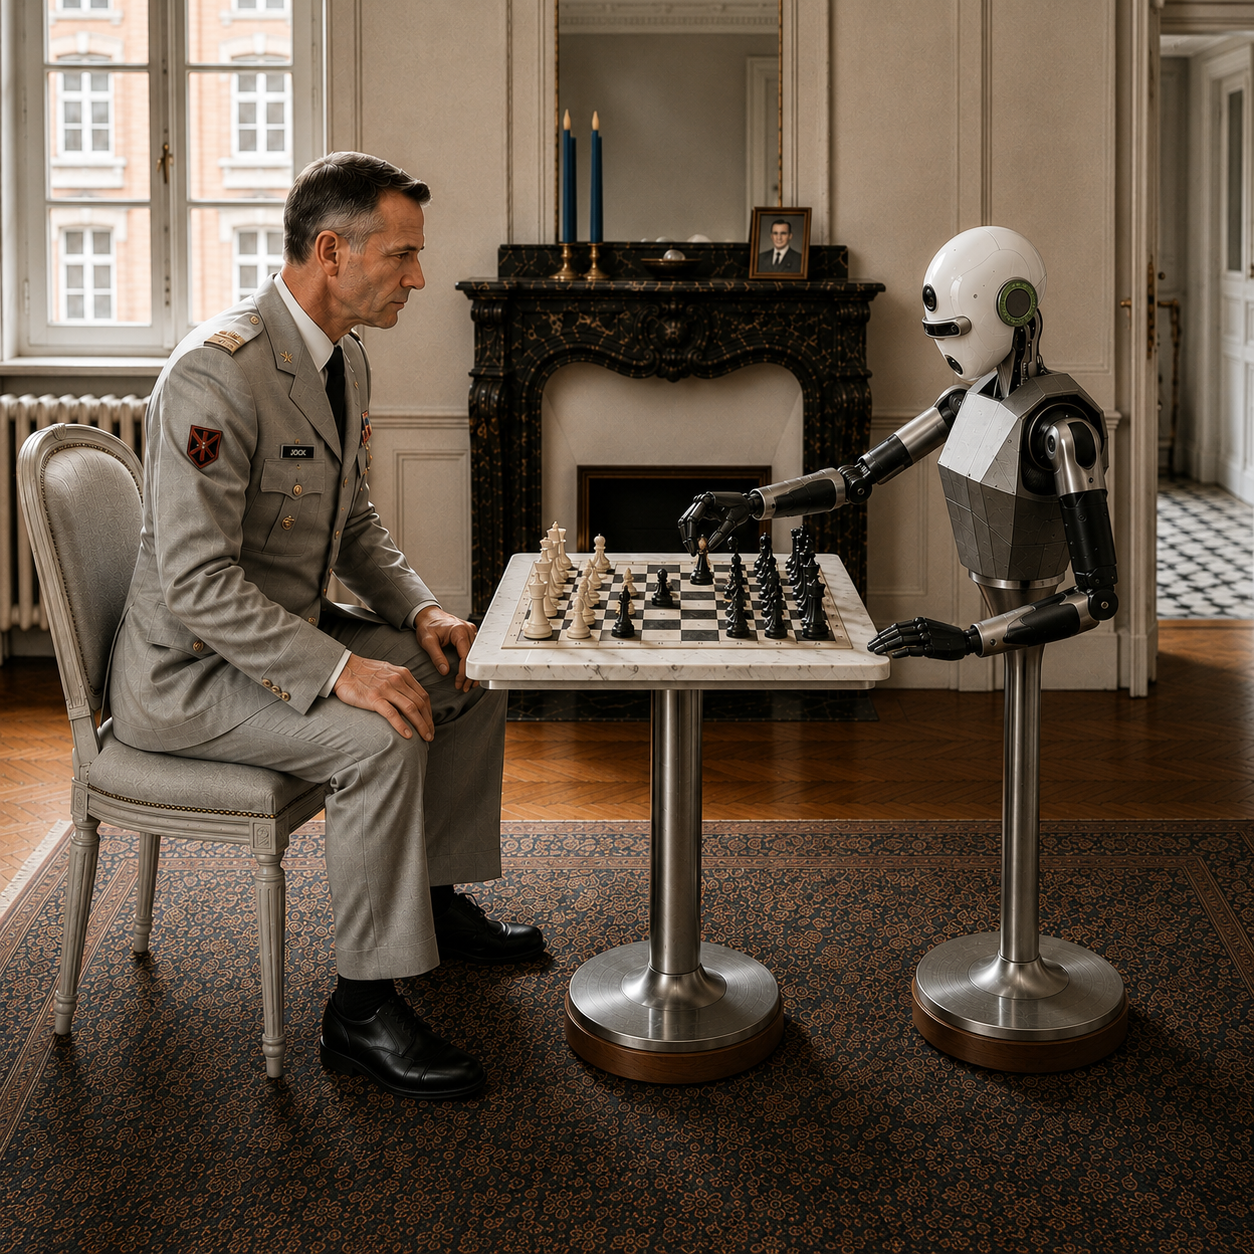
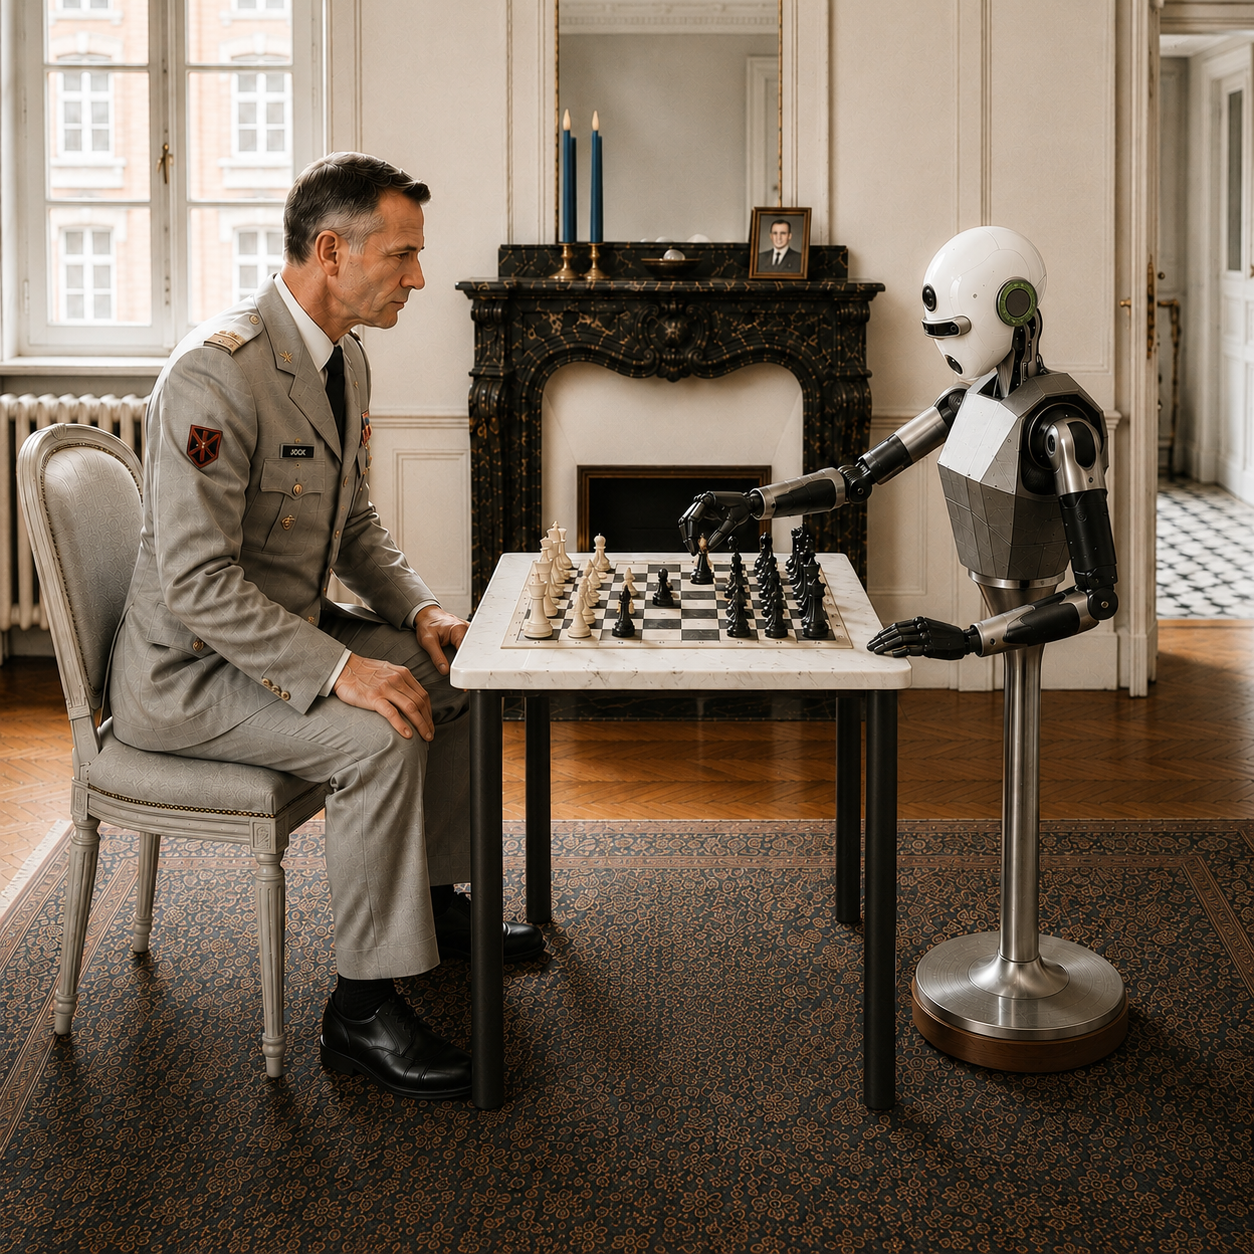
Repoint two stale .jpg hero/card refs to the new .png assets
The asset directory now contains pierre-at-table.png and pierre.png (the user's refresh) but home.html still pointed at .jpg names. Both refs updated to .png. Verified all five campaign images load: status 200, .complete = true, natural dimensions reported.

diff --git a/pages/home.html b/pages/home.html
@@ -834,7 +834,7 @@ footer .container {
     </div>
     <figure>
       <div class="hero-img">
-        <img src="/assets/campaign/pierre-at-table.jpg" alt="Pierre, the Manifest humanoid prototype, standing at a table">
+        <img src="/assets/campaign/pierre-at-table.png" alt="Pierre, the Manifest humanoid prototype, standing at a table">
       </div>
       <figcaption data-i18n="hero-caption">Pierre will gain legs and locomotion by December.</figcaption>
     </figure>
@@ -852,7 +852,7 @@ footer .container {
       <p class="campaign-intro" data-i18n="campaign-intro">Humanoids are about to change defence. If you're an investor, a defence contractor, or a service member, you deserve a clear picture of what's coming.</p>
 
       <div class="item">
-        <img class="item-media" src="/assets/campaign/pierre.jpg" alt="Pierre gesturing while explaining">
+        <img class="item-media" src="/assets/campaign/pierre.png" alt="Pierre gesturing while explaining">
         <div class="item-body">
           <p class="item-date"><span class="date-text" data-i18n="item1-date">June 22 — July 3</span><span class="item-place" data-i18n="item1-place">Virtual</span></p>
           <h3 data-i18n="item1-title">Get up to speed</h3>
